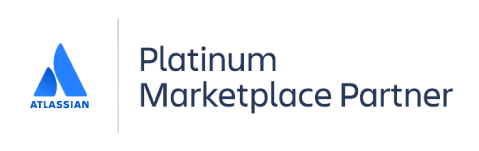
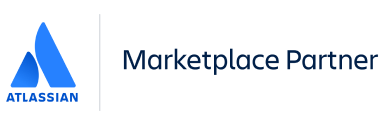
Added a new badge and updated an existing one

diff --git a/components/Hero.jsx b/components/Hero.jsx
@@ -5,6 +5,7 @@ import styles from "../styles/hero.module.scss";
 
 import atlImg from "public/assets/atlassian-badges/atl.png";
 import atlCloudImg from "public/assets/atlassian-badges/atl-cloud.png";
+import atlJiraProjectImg from "public/assets/atlassian-badges/atl-jira-project.png";
 import awsCloudImg from "public/assets/atlassian-badges/aws-cloud.png";
 import marketPlaceImg from "public/assets/atlassian-badges/market-place.png";
 
@@ -33,8 +34,9 @@ const Hero = () => {
               <Image src={atlCloudImg} alt={"Atlassian Certified Confluence Administrator for Cloud"} />
               <Image src={awsCloudImg} alt={"AWS Certified Cloud Practitioner"} />
             </div>
-            <div className="badges">
+            <div className={styles.badges}>
               <Image src={marketPlaceImg} alt={"Atlassian Platinum Market Place Partner"} />
+              <Image src={atlJiraProjectImg} alt={"Atlassian Platinum Market Place Partner"} />
             </div>
           </div>
         </div>

diff --git a/styles/hero.module.scss b/styles/hero.module.scss
@@ -89,7 +89,7 @@
             .badges {
                 display: flex;
                 justify-content: center;
-                align-items: flex-start;
+                align-items: center;
                 gap: 57px;
 
                 @media screen and (max-width: 576px) {
